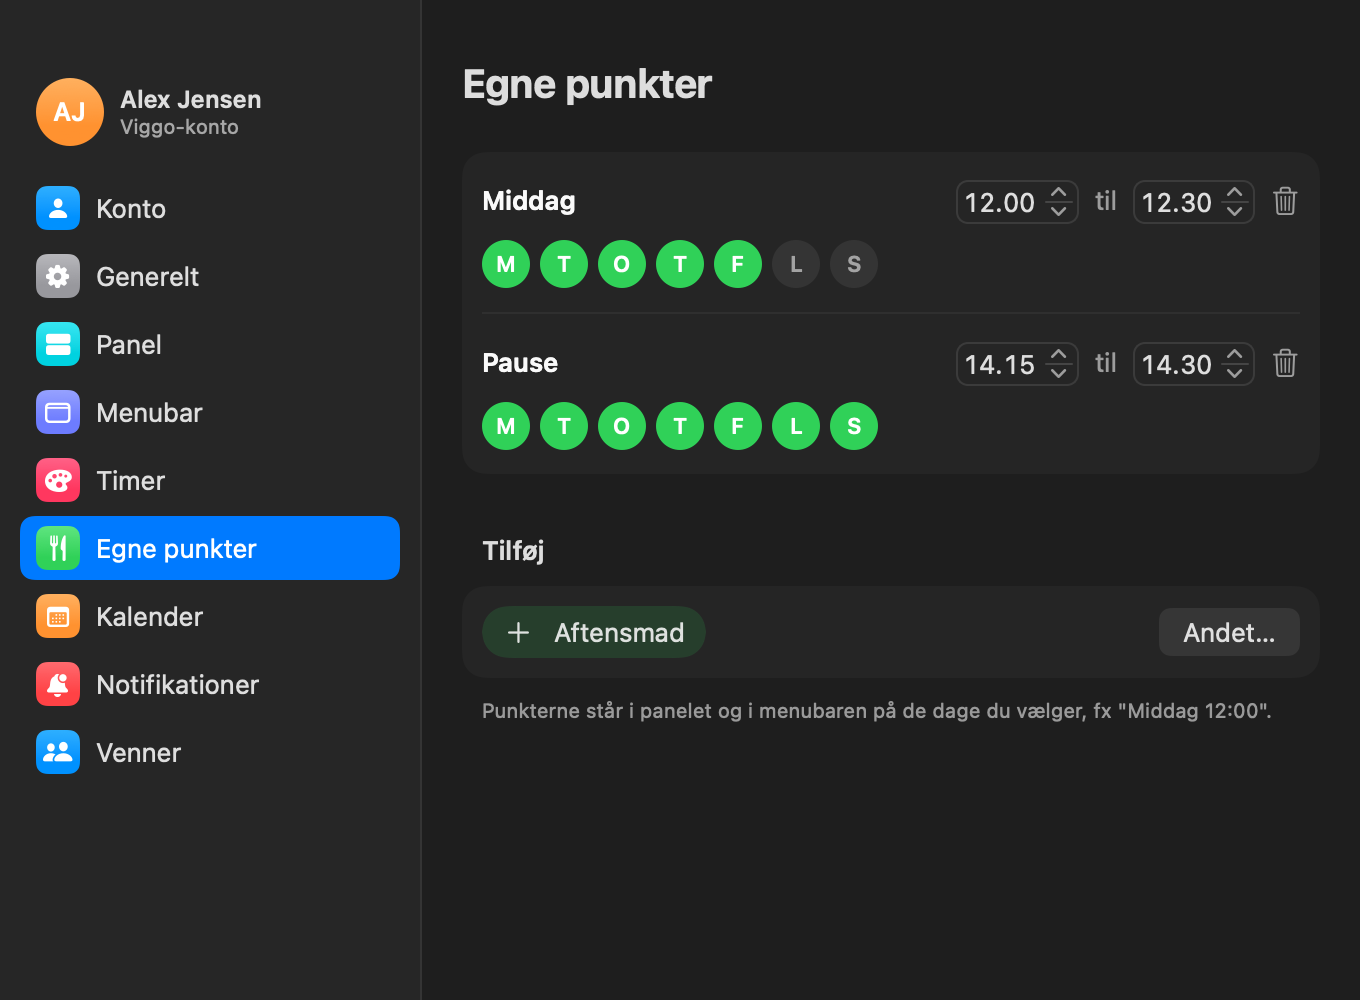
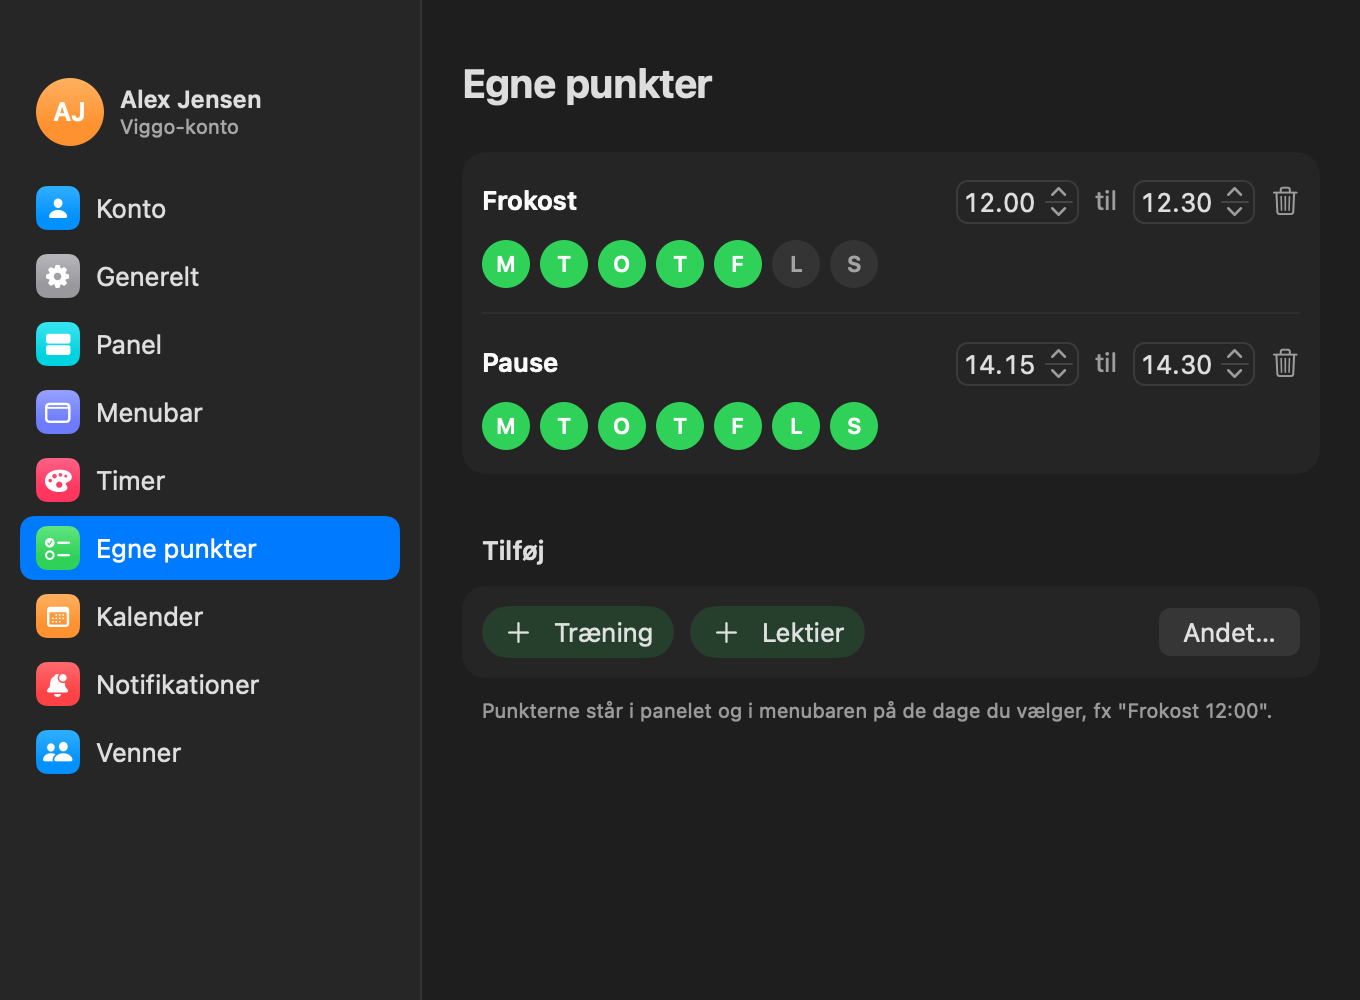
Egne punkter: liste-ikon og nye eksempler (Frokost, Træning, Lektier)

diff --git a/Sources/Views.swift b/Sources/Views.swift
@@ -523,7 +523,7 @@ enum SettingsPage: String, CaseIterable, Identifiable {
         case .panel: return "rectangle.grid.1x2.fill"
         case .menubar: return "menubar.rectangle"
         case .timer: return "paintpalette.fill"
-        case .egne: return "fork.knife"
+        case .egne: return "checklist"
         case .kalender: return "calendar"
         case .notifikationer: return "bell.badge.fill"
         case .venner: return "person.2.fill"
@@ -1158,7 +1158,7 @@ struct CustomItemsTab: View {
             } header: {
                 Text("Tilføj")
             } footer: {
-                Text("Punkterne står i panelet og i menubaren på de dage du vælger, fx \"Middag 12:00\".")
+                Text("Punkterne står i panelet og i menubaren på de dage du vælger, fx \"Frokost 12:00\".")
                     .font(.caption).foregroundStyle(.secondary)
             }
         }
@@ -1190,7 +1190,7 @@ struct CustomItemRow: View {
     var body: some View {
         VStack(alignment: .leading, spacing: 8) {
             HStack(spacing: 8) {
-                TextField("", text: $item.title, prompt: Text("Navn, fx Middag"))
+                TextField("", text: $item.title, prompt: Text("Navn, fx Frokost"))
                     .labelsHidden()
                     .textFieldStyle(.plain).font(.system(size: 13, weight: .semibold))
                     .frame(maxWidth: .infinity, alignment: .leading)

diff --git a/Sources/Models.swift b/Sources/Models.swift
@@ -2,7 +2,7 @@ import Foundation
 
 enum EventKind: String, Codable { case lesson, event, routine, birthday, duty, custom }
 
-/// Your own everyday item, like "Middag 12:00 to 12:30 on weekdays". Shown in the panel and the menubar.
+/// Your own everyday item, like "Frokost 12:00 to 12:30 on weekdays". Shown in the panel and the menubar.
 struct CustomItem: Codable, Identifiable, Hashable {
     var id = UUID()
     var title: String
@@ -13,9 +13,9 @@ struct CustomItem: Codable, Identifiable, Hashable {
     var days: Set<Int> = [1, 2, 3, 4, 5]
 
     static let suggestions: [CustomItem] = [
-        CustomItem(title: "Middag", start: 12 * 60, end: 12 * 60 + 30),
-        CustomItem(title: "Pause", start: 10 * 60, end: 10 * 60 + 15),
-        CustomItem(title: "Aftensmad", start: 18 * 60, end: 18 * 60 + 30, days: [1, 2, 3, 4, 5, 6, 7]),
+        CustomItem(title: "Frokost", start: 12 * 60, end: 12 * 60 + 30),
+        CustomItem(title: "Træning", start: 16 * 60, end: 17 * 60),
+        CustomItem(title: "Lektier", start: 19 * 60, end: 20 * 60),
     ]
 
     /// This item as an event on the given day, or nil if it is not on that weekday.

diff --git a/Sources/DocRenderer.swift b/Sources/DocRenderer.swift
@@ -68,7 +68,7 @@ enum DocRenderer {
     private static func loadDemo(_ s: AppState) {
         s.profile = Profile(id: 1, name: "Alex Jensen", image: nil)
         Prefs.shared.customItems = [
-            CustomItem(title: "Middag", start: 12 * 60, end: 12 * 60 + 30),
+            CustomItem(title: "Frokost", start: 12 * 60, end: 12 * 60 + 30),
             CustomItem(title: "Pause", start: 14 * 60 + 15, end: 14 * 60 + 30, days: [1, 2, 3, 4, 5, 6, 7]),
         ]
         s.events = [

diff --git a/CHANGELOG.md b/CHANGELOG.md
@@ -2,7 +2,7 @@
 
 ## 1.5.0 (2026-11-09)
 
-- **Egne punkter**: tilføj middag, aftensmad, pauser og andet under Indstillinger › Egne punkter, med tidspunkt og hvilke dage. De står i panelet med en grøn streg og i menubaren, fx "Middag 12:00".
+- **Egne punkter**: tilføj frokost, træning, lektier og andet under Indstillinger › Egne punkter, med tidspunkt og hvilke dage. De står i panelet med en grøn streg og i menubaren, fx "Frokost 12:00".
 - **Små animationer**: lektier hopper når du krydser af, minutterne ruller på Nu-kortet, ringen glider hen til den ven du vælger, og dagen tones ind. Synk-pilen drejer mens den henter, og knapperne giver lidt efter når du trykker.
 - I indstillingerne glider markeringen i siden med, og siderne tones ind.
 - **Login-kort**: når Viggo+ logger dig eller en ven ind, viser et kort hvor langt login er nået (Viggo, UNI-Login, SkoleIT), med en lås der bliver til et grønt skjold når det lykkes.

diff --git a/README.md b/README.md
@@ -67,7 +67,7 @@ Klik på en side for at se den.
 </details>
 
 <details>
-<summary><b>Egne punkter</b>: Middag, aftensmad, pauser og andet du selv vil have med.</summary>
+<summary><b>Egne punkter</b>: Frokost, træning, lektier og andet du selv vil have med.</summary>
 <br>
 <p align="center"><img src="docs/screens/settings-egne-punkter.png" alt="Egne punkter" width="680"></p>
 </details>
